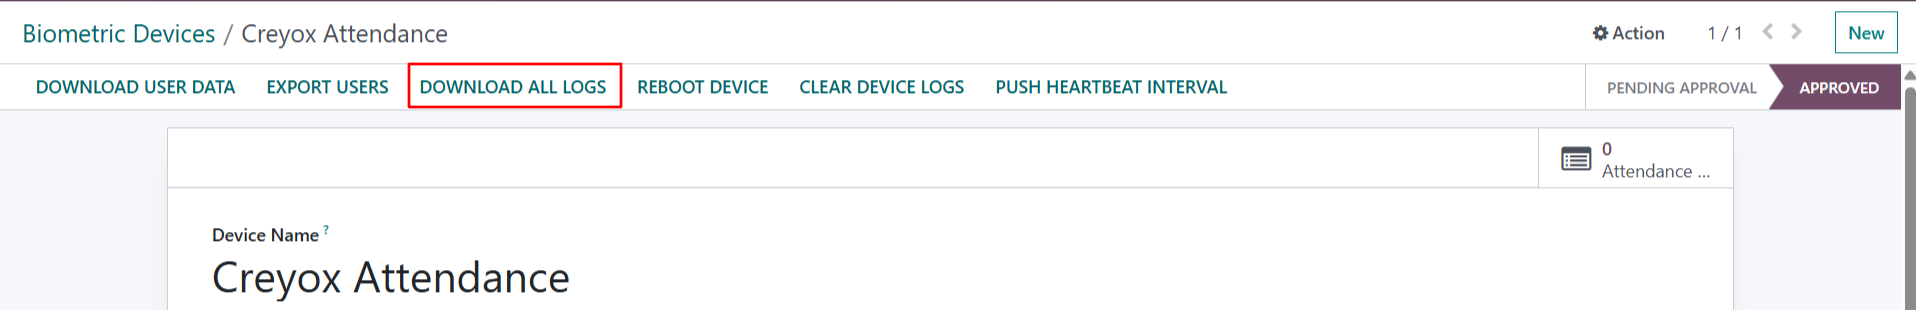
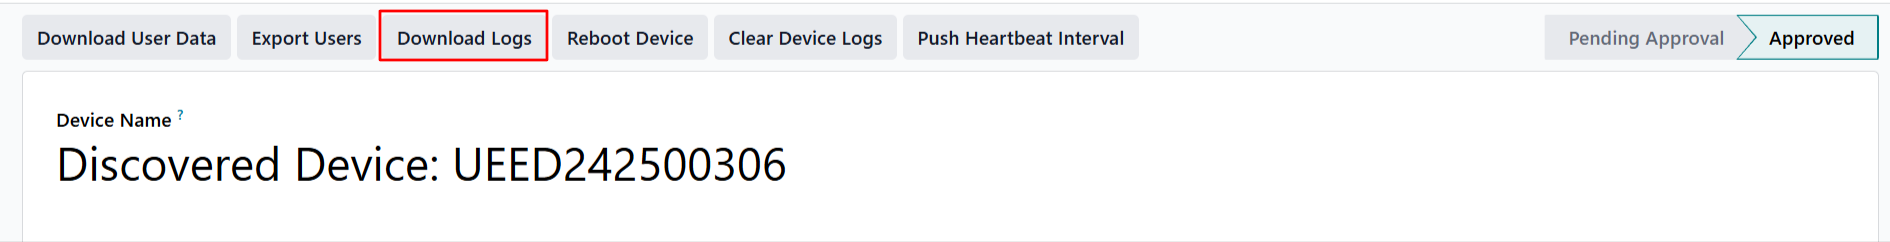
leatest index

diff --git a/cr_zkteco_biometric_integration/static/description/index.html b/cr_zkteco_biometric_integration/static/description/index.html
@@ -315,6 +315,37 @@
                         </div>
                     </div>
 
+                    <!-- Extended Feature Tiles: Row 5 (Latest Enhancements) -->
+                    <div class="row g-4 mb-5">
+                        <div class="col-lg-3 col-md-6">
+                            <div class="p-4 h-100 shadow d-flex flex-column align-items-center text-center" style="background-color: #ffffff; border-radius: 30px; border-top: 10px solid #2563eb;">
+                                <div class="d-flex justify-content-center align-items-center mb-3" style="width: 70px; height: 70px; background-color: #eff6ff; border-radius: 20px; color: #2563eb; font-size: 30px;">
+                                    <i class="fa fa-download"></i>
+                                </div>
+                                <h5 style="font-weight: 800; color: #1e293b;">Download Logs Wizard</h5>
+                                <p style="font-size: 14px; color: #64748b; margin-bottom: 0;">Interactive wizard to filter and re-download attendance logs by date and time range.</p>
+                            </div>
+                        </div>
+                        <div class="col-lg-3 col-md-6">
+                            <div class="p-4 h-100 shadow d-flex flex-column align-items-center text-center" style="background-color: #ffffff; border-radius: 30px; border-top: 10px solid #16a34a;">
+                                <div class="d-flex justify-content-center align-items-center mb-3" style="width: 70px; height: 70px; background-color: #f0fdf4; border-radius: 20px; color: #16a34a; font-size: 30px;">
+                                    <i class="fa fa-plane"></i>
+                                </div>
+                                <h5 style="font-weight: 800; color: #1e293b;">Time Off &amp; Holiday Sync</h5>
+                                <p style="font-size: 14px; color: #64748b; margin-bottom: 0;">Full integration with Odoo Time Off leaves and public holidays to exclude approved absences.</p>
+                            </div>
+                        </div>
+                        <div class="col-lg-3 col-md-6">
+                            <div class="p-4 h-100 shadow d-flex flex-column align-items-center text-center" style="background-color: #ffffff; border-radius: 30px; border-top: 10px solid #ea580c;">
+                                <div class="d-flex justify-content-center align-items-center mb-3" style="width: 70px; height: 70px; background-color: #fff7ed; border-radius: 20px; color: #ea580c; font-size: 30px;">
+                                    <i class="fa fa-envelope-o"></i>
+                                </div>
+                                <h5 style="font-weight: 800; color: #1e293b;">Automated Email Alerts</h5>
+                                <p style="font-size: 14px; color: #64748b; margin-bottom: 0;">Automated cron alert emails sent to admin when employees miss check-in threshold times.</p>
+                            </div>
+                        </div>
+                    </div>
+
                     <!-- ✨ HOW IT WORKS — 3-Step Visual Flow -->
                     <div class="my-5 py-2">
                         <div class="text-center mb-5">
@@ -709,6 +740,17 @@
                         </ul>
                         <ul style="font-size: 22px;">
                             <li>
+                                Go to <b>Attendances</b> >> <b>Dashboard</b>. There, you can view all the metric cards, such as <b>Total Employees</b>, <b>Present</b>, <b>On Leave</b>, <b>Absent</b>, <b>Late Arrivals</b>, <b>Early Leavings</b>, and more.
+                            </li>
+                            <li>
+                                If an employee has an approved leave or a public holiday assigned for the day, they will be excluded from the absent list and displayed under <b>On Leave</b>.
+                            </li>
+                            <img src="images/biometric dashboard.png" alt="" class="img img-fluid shadow-lg mx-auto mt-4 mb-5"
+                                    loading="lazy"
+                                    style="border: 1px solid rgb(242, 238, 247); border-radius: 11px;"/>
+                        </ul>
+                        <ul style="font-size: 22px;">
+                            <li>
                                 Go to <b>Attendances</b> >> <b>Biometric Configuration</b> >> <b>Devices</b> to view and manage all connected biometric devices in one place.
                             </li>
                             <img src="images/device menu.png" alt="" class="img img-fluid shadow-lg mx-auto mt-4 mb-5"
@@ -760,7 +802,10 @@
                                     loading="lazy"
                                     style="border: 1px solid rgb(242, 238, 247); border-radius: 11px;"/>
                             <li>
-                                By clicking <b>Download All Logs</b>, you can fetch and import all attendance logs from the device into Odoo.
+                                Click <b>Download Logs</b> to open a pop-up. Enter the date range for which you want to download attendance logs, or leave the dates empty to download all available logs.
+                            </li>
+                            <li>
+                                You can fetch and import attendance logs from the device into Odoo either for a specific date range or all available logs.
                             </li>
                         </ul>
                         <ul style="font-size: 22px;">
@@ -857,6 +902,21 @@
                                     style="border: 1px solid rgb(242, 238, 247); border-radius: 11px;"/>
                             <li>
                                 You can configure <b>Check-In Grace</b> and <b>Check-Out Grace</b> in minutes. For example, if an employee checks in 10 minutes late and the allowed grace period for check-in is 10 minutes, it will still be counted as on-time. Similarly, if an employee checks out 10 minutes early and the allowed grace period for check-out is 10 minutes, it will also be treated as an on-time checkout.
+                            </li>
+                        </ul>
+
+                        <ul style="font-size: 22px;">
+                            <img src="images/send absent mail section.png" alt="" class="img img-fluid shadow-lg mx-auto mt-4 mb-5"
+                                    loading="lazy"
+                                    style="border: 1px solid rgb(242, 238, 247); border-radius: 11px;"/>
+                            <li>
+                                Enable <b>Enable Absent Email Alerts</b> and configure the <b>Alert Delay</b> and <b>Admin Alert Email</b>.
+                            </li>
+                            <img src="images/absent alert mail.png" alt="" class="img img-fluid shadow-lg mx-auto mt-4 mb-5"
+                                    loading="lazy"
+                                    style="border: 1px solid rgb(242, 238, 247); border-radius: 11px;"/>
+                            <li>
+                                Every day, an email will be sent to the configured email address after the specified delay from the shift start time, listing employees who are absent for the day.
                             </li>
                         </ul>
 
@@ -966,6 +1026,9 @@
                             <li>
                                 By clicking on <b>Daily Summary Report</b>, you can download a summary PDF report for the selected date.
                             </li>
+                            <li>
+                                If an employee has an approved leave or a public holiday assigned for the day, they will be excluded from the absent list and displayed under <b>On Leave</b>.
+                            </li>
                         </ul>
                         <ul style="font-size: 22px;">
                             <img src="images/absence report menu.png" alt="" class="img img-fluid shadow-lg mx-auto mt-4 mb-5"
@@ -986,7 +1049,7 @@
                                     loading="lazy"
                                     style="border: 1px solid rgb(242, 238, 247); border-radius: 11px;"/>
                             <li>
-                                By clicking on <b>Daily Attendnace Report</b>, you can download a summary PDF report for the selected date.
+                                By clicking on <b>Daily Attendnace Report</b>, you can download a Attendance PDF report for the selected date.
                             </li>
                         </ul>
                     </div>